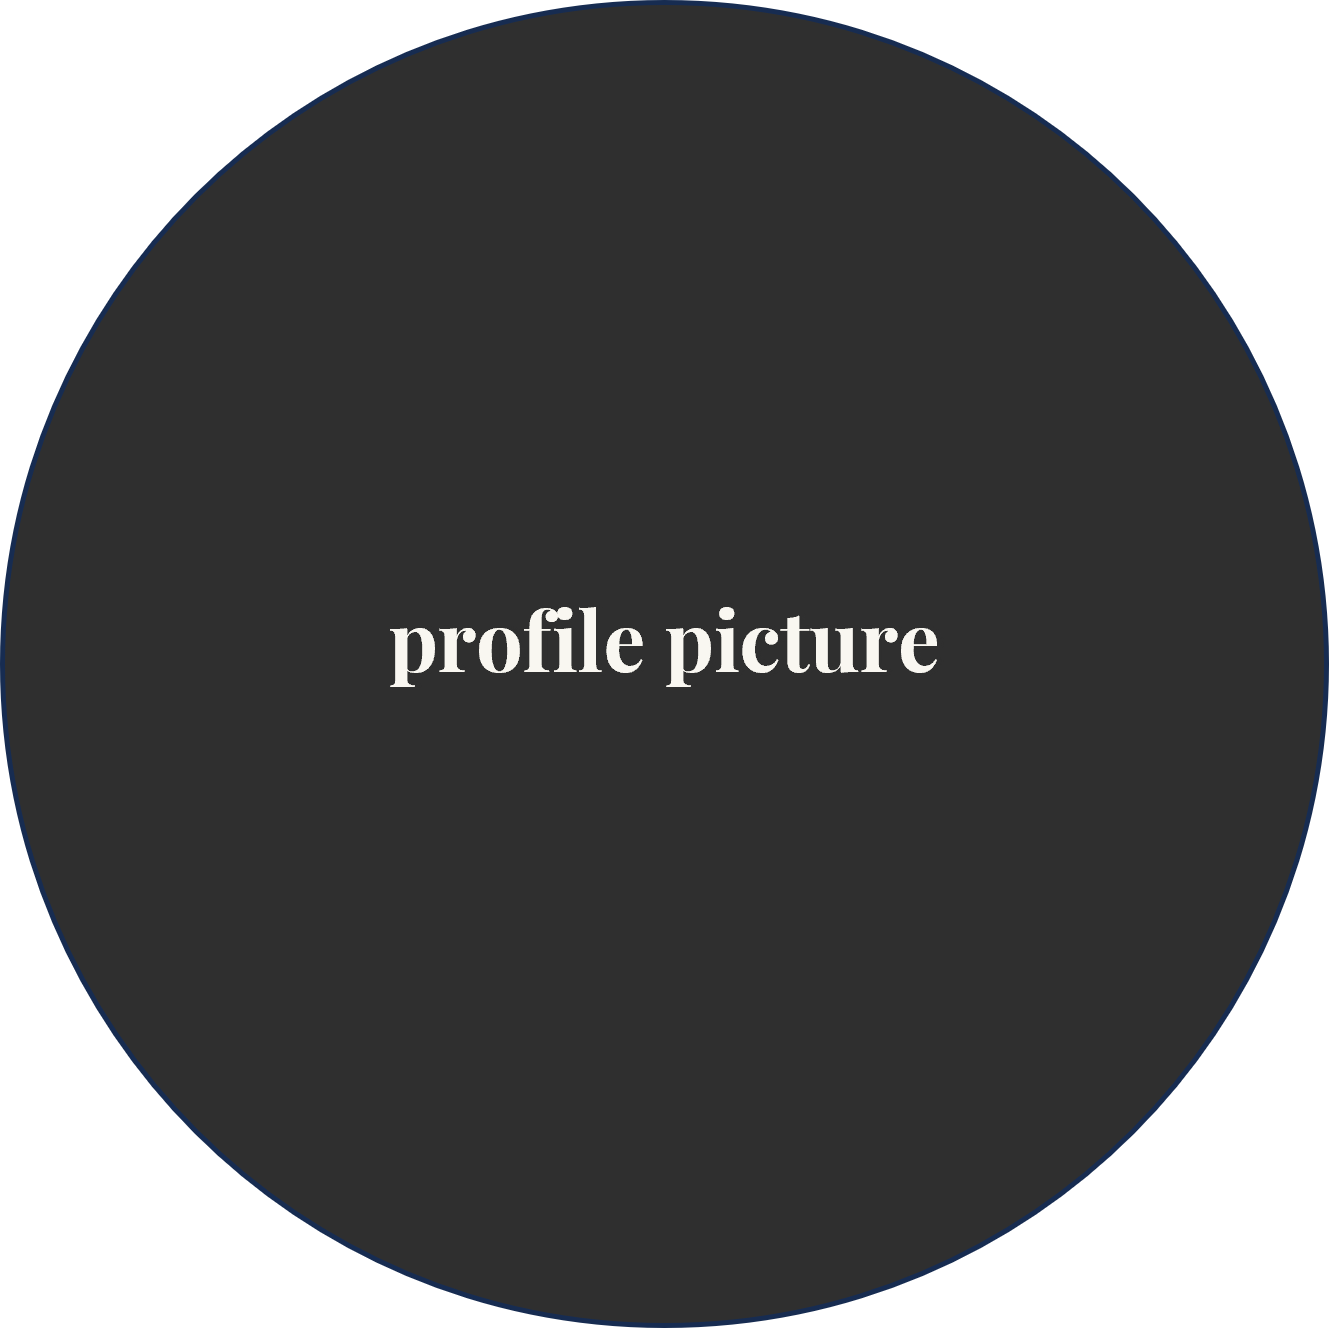
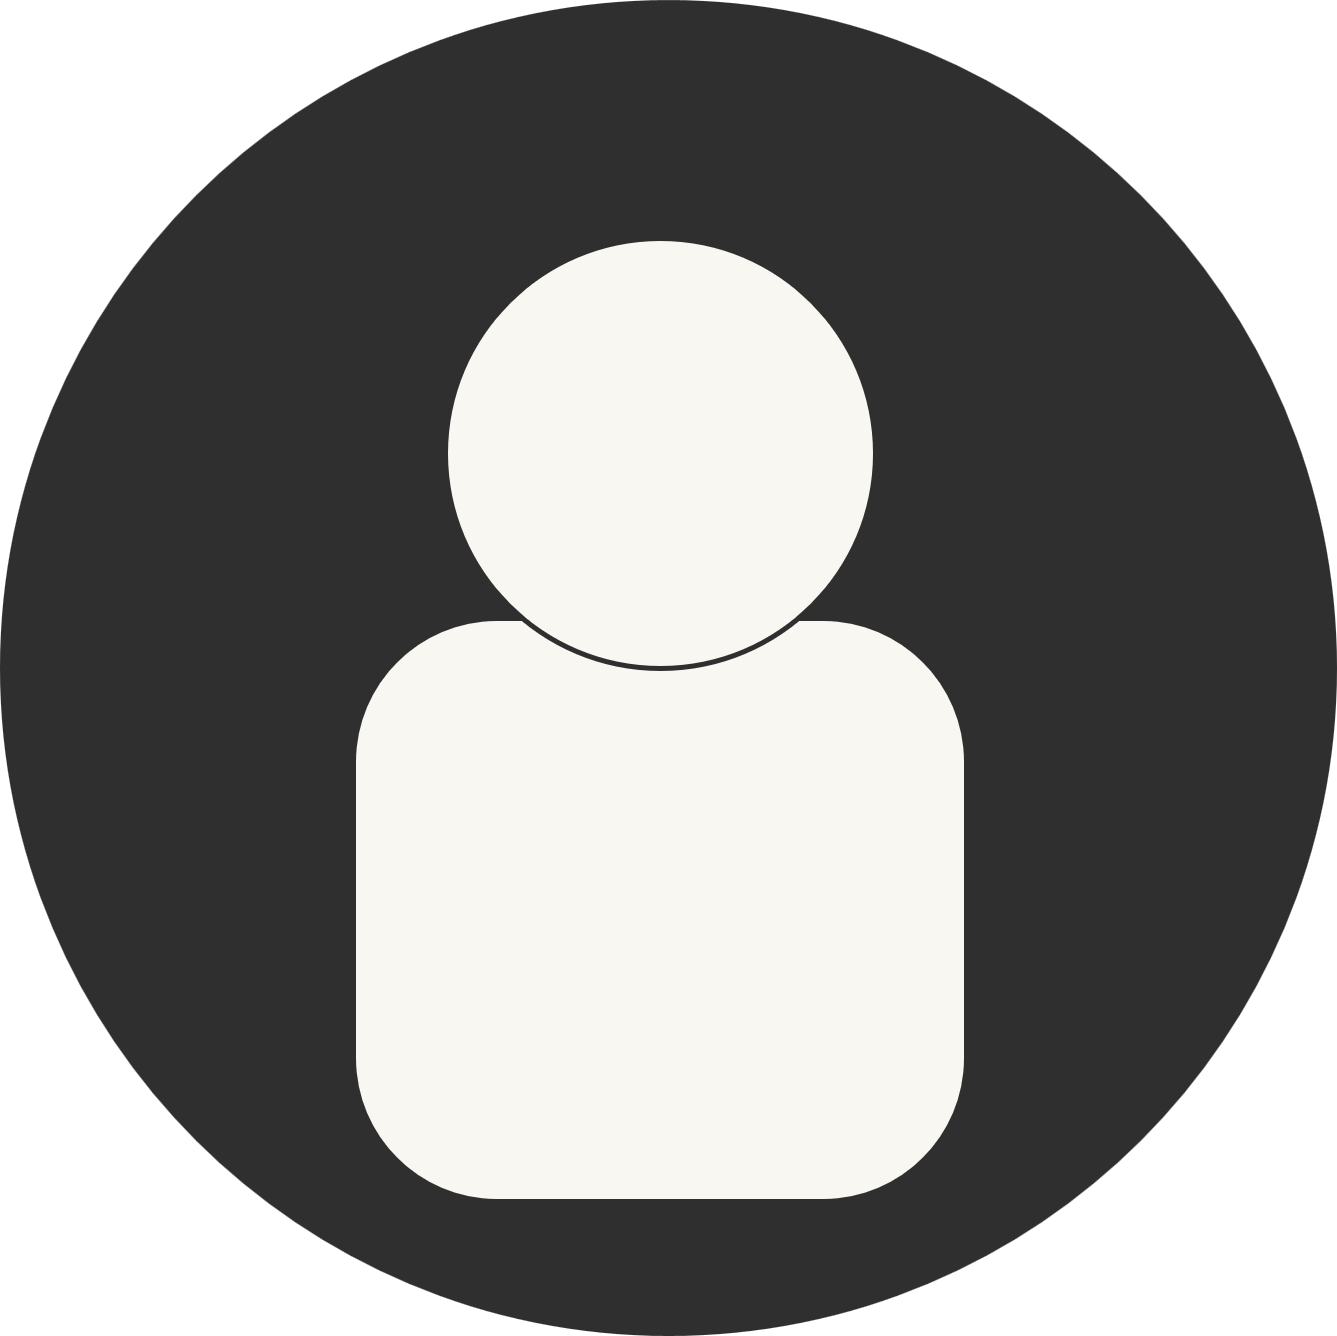
changing profile picture feature in the work

diff --git a/public/profile.js b/public/profile.js
@@ -1,19 +1,28 @@
+//USER INFORMATION
 var username = document.getElementById("username");
 var fullname = document.getElementById("name");
-var submitUsernameBtn = document.getElementById("submit-username");
 var password = document.getElementById("password");
-var submitPwBtn = document.getElementById("submit-pw");
+// BUTTONS FOR EDITING USER INFORMATION
 var signoutBtn = document.getElementById("signout");
 var changePwBtn = document.getElementById("change-pw");
+var submitUsernameBtn = document.getElementById("submit-username");
+var submitPwBtn = document.getElementById("submit-pw");
 var changeUsernameBtn = document.getElementById("change-username");
 var cancelUsernameBtn = document.getElementById("cancel-username");
 var cancelPwBtn = document.getElementById("cancel-pw");
+// NEW PASSWORD POP UP
 var newPwField = document.getElementById("new-pw-field");
 var newPassword = document.getElementById("new-pw");
 var btnDiv = document.getElementById("btn-div");
+// POPUP
 var popup = document.getElementById("popup-background");
 var popupMessage = document.getElementById("popup-message");
 var closeBtn = document.getElementById("close-btn");
+// CHANGING PROFILE PICTURE
+var profileDiv = document.getElementById("ava-div");
+var profilePic = document.getElementById("profile-pic");
+var choosePic = document.getElementById("choose-ava");
+
 
 // GET USER
 fetch("/user", {
@@ -26,6 +35,39 @@ fetch("/user", {
     username.value = data.user.username;
     var temp = '.'.repeat(data.user.pwLength);
     password.value = temp;
+})
+
+// CHANGE PROFILE PICTURE
+choosePic.addEventListener("change", function() {
+    var picChosen = this.files[0];
+    if (picChosen) {
+        console.log(picChosen.name);
+        if (response.status === 200) {
+            reader.addEventListener("load", function() {
+                profilePic.style.backgroundImage = "url(" + reader.result + ")";
+            })
+            reader.readAsDataURL(picChosen);  
+        }
+    };
+    /*var obj = {
+        currentPassword: "",
+        newPassword: "",
+        newUsername: "",
+        newAvatar: picChosen.name,
+    };
+    fetch("/update", {
+        method: "POST",
+        headers: {
+            "Content-type": "application/json"
+        },
+        body: JSON.stringify(obj)
+    }).then (response => {
+        const reader = new FileReader();
+        
+    }).catch (error => {
+        console.log("error");
+    });*/
+    
 })
 
 // CHANGE USERNAME BUTTON

diff --git a/public/profile.css b/public/profile.css
@@ -7,9 +7,49 @@
     margin-left: 10px;
 }
 
-.profile-pic {
-    width: 25%;
-    max-width: 25%;
+#ava-div {
+    width: 250px;
+    height: 250px;
+    justify-content: center;
+    margin-right: 20px;
+    
+}
+
+#choose-ava {
+    display: none;
+}
+
+#choose-ava-label {
+    display: block;
+    background-color: transparent;
+    color: var(--secondary-color);
+    border: 3px solid var(--secondary-color);
+    border-radius: 20px;
+    padding: 5px;
+    text-align: center;
+    margin-left: 40px;
+    margin-right: 40px;
+}
+
+#choose-ava-label:hover {
+    background-color: var(--secondary-color);
+    cursor: pointer;
+    color: var(--primary-color);
+}
+
+#choose-ava-label:visited {
+    background-color: transparent;
+    color: var(--primary-color);
+}
+
+#profile-pic {
+    background-image: url("./pictures/background-image.jpg");
+    height: 100%;
+    width: 100%;
+    margin-bottom: 10px;
+    background-size: cover;
+    background-position: center;
+    border-radius: 50%;
 }
 
 #personal-info {

diff --git a/public/profile.html b/public/profile.html
@@ -38,7 +38,13 @@
             </div>
 
             <section id="profile-field">
-                <img class="profile-pic" src="pictures/profile-pic.png" alt="">
+                <div id="ava-div">
+                    <div id="profile-pic"></div>
+                    <!--<img id="profile-pic" class="profile-pic" src="pictures/background-image.jpg" alt="">-->
+                    <input type="file" id="choose-ava" title=" ">
+                    <label for="choose-ava" id="choose-ava-label">Select profile picture</label>
+                </div>
+                
                 <div id="personal-info">
                     <div id="info-div">
                         <label id="info-label" for="name">Name:</label>

diff --git a/public/app.js b/public/app.js
@@ -5,9 +5,9 @@ $(document).ready(function() {
     mode.onclick = function() {
         document.body.classList.toggle("dark")
         if (document.body.classList.contains("dark")) {
-            logo.src = "pictures/inline.png"
+            logo.src = "pictures/inline.png";
         } else {
-            logo.src = "pictures/inline-black.png"
+            logo.src = "pictures/inline-black.png";
         }
     }
 
